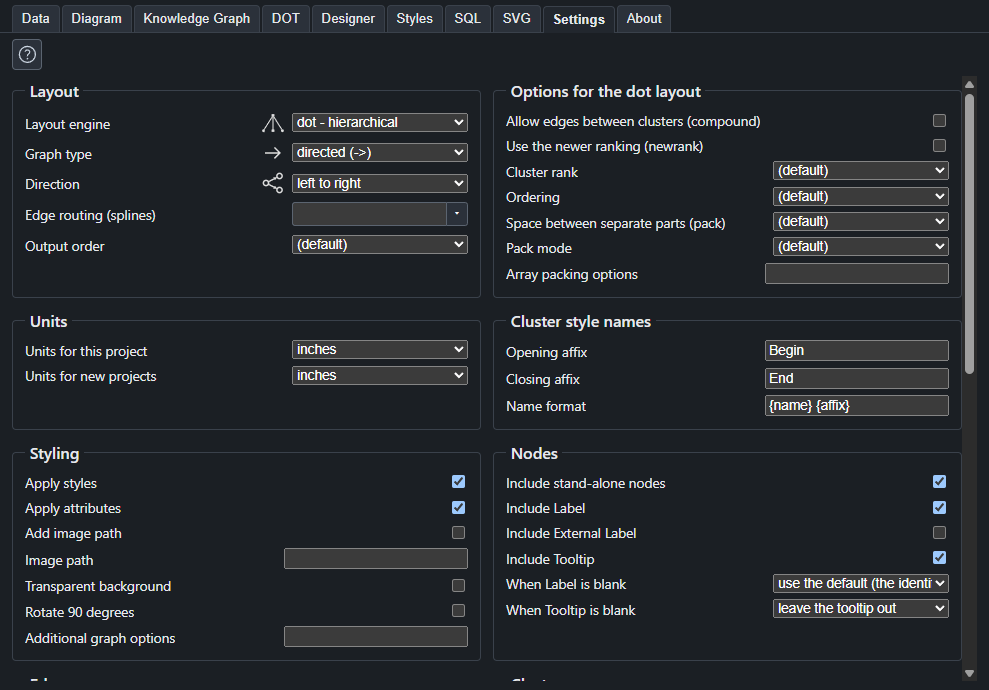
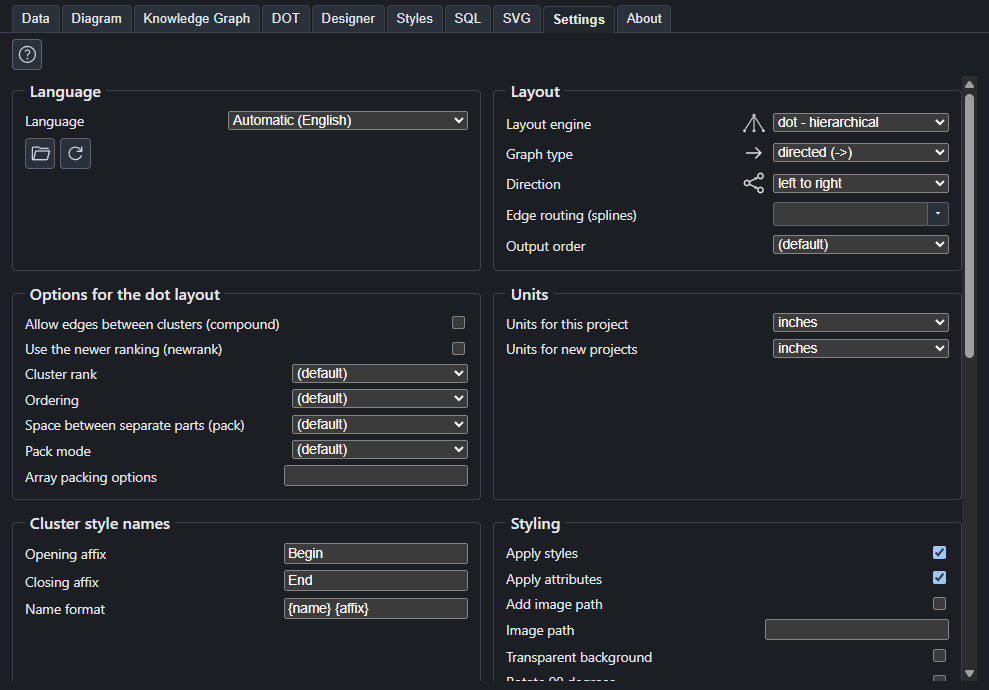
Next version: pages for Find and replace and Languages, and what the other pages say about them
New pages /docs/find-and-replace/ and /docs/languages/, in the sidebar and the docs index. The Data, Styles, SQL and DOT pages mention Ctrl+F and Ctrl+H, the Settings page has a Language section and the About page a Translations section. New Find shots and a Settings shot with the Language group. A hidden draft of the next What's new entry (number and date not chosen). Hold until the release.

diff --git a/content/docs/find-and-replace/index.md b/content/docs/find-and-replace/index.md
@@ -1,0 +1,65 @@
+---
+description: "Find text in the Data, Styles, SQL, DOT and Knowledge Graph tabs with Ctrl+F, and replace it in the tabs where you edit, with Ctrl+H."
+---
+
+# Find and replace
+
+One small bar finds text in the tab you are looking at, and on the tabs where you type data it can also replace it. It opens over the top right of the window, beside the
+tabs, and does not move anything on the page.
+
+<img class="shot shot-light" src="/shots/find-light.png" alt="The Data tab with the Find bar open, the cells that hold the text colored, and the current one stronger">
+<img class="shot shot-dark" src="/shots/find-dark.png" alt="The Data tab with the Find bar open, in the dark theme">
+
+## Finding
+
+Press **Ctrl+F** on the [Data](/docs/data/), [Styles](/docs/styles/), [SQL](/docs/sql/), [DOT](/docs/dot/) or [Knowledge Graph](/docs/knowledge-graph/) tab, and type. If you had text
+selected, the bar starts with it. The bar shows the place among the matches, such as **3 of 17**, and the tab marks every match, with the current one in a stronger color
+and scrolled into view.
+
+| Key | What it does |
+| --- | --- |
+| **Ctrl+F** | Opens the bar, or goes back to its box with the text selected, so that typing replaces the term. |
+| **Enter** and **Shift+Enter** | The next match and the one before. They go round at the ends. |
+| **F3** and **Shift+F3** | The same, from anywhere. |
+| **Alt+C** | Matches the case: with it on, `Node` does not find `node`. It is off at first. |
+| **Esc** | Closes the bar and puts the cursor on the match you were at, or selects it in the DOT text. |
+
+The bar belongs to the window and not to a tab. It keeps what you typed when you go to another tab, and looks again in that tab. On a tab that cannot be searched,
+such as Settings, it is not shown. The tab also looks again when its text changes, so the count stays true while you edit.
+
+### What each tab searches
+
+- **Data, Styles and SQL** search the text in the cells, row by row. A match is a **cell**, so a cell that holds the term twice counts once. The column headings are not searched,
+  and neither are the columns you hid with the **Columns** menu. Rows you commented out are searched like any other.
+- **DOT** searches the text, and every place where the term is counts, with the match painted over the colored text.
+- **Knowledge Graph** searches the raw text by line, and the tree by its keys and values. Switching between **Raw** and **Tree** looks again in the new view.
+
+Letters with accents are not treated as the plain letter: `zolw` does not find `żółw`. Capital and small letters are treated as the same unless you turn on **Match case**.
+
+## Replacing
+
+On the tabs where you edit, press **Ctrl+H** to show the Replace row under the Find box, or press the arrow at the left of the bar. Type the new text, then:
+
+- **Replace** (or **Enter** in the Replace box) changes the current match and goes on to the next one.
+- **Replace all** (or **Ctrl+Alt+Enter**) changes every match in the tab, and says how many cells it will change on the button, such as **Replace all (58)**.
+
+Replacing is for the cells you can type in: the text columns of the Data, Styles and SQL tabs. It changes them as typing would, so the diagram, the DOT text and the Knowledge Graph follow.
+
+- **It is one step to undo.** A Replace all is a single entry, named **Replace in cells**, and one **Ctrl+Z** puts every cell back. A single replacement is named **Replace in a cell**.
+- **It works on the tab you are on.** Replace all never changes another tab.
+- **Rows you commented out are changed too**, as the Excel tool did.
+- **The new text is taken as you type it.** Nothing in it is a pattern: `$` and `\` are ordinary characters, an empty Replace box deletes the found text, and the new text is not
+  searched again, so replacing `a` with `ab` does not run on.
+- **Some cells cannot take a replacement.** A cell where you choose from a list, such as the **Style Name** or **Style Type**, and a column that is only shown cannot be changed by it.
+  The bar says how many of those cells held the text, so nothing is passed over in silence, and you can change them by hand.
+
+::: tip Look before you replace all
+Step through a few matches first, and read the count on the button. If it is more than you expected, turn on **Match case** or make the term longer. A replacement that
+goes too far is one Undo away, but it is easier not to need it.
+:::
+
+The DOT and Knowledge Graph tabs are for reading, so they have no Replace row, and **Ctrl+H** does nothing there.
+
+## What it does not do
+
+It has no patterns (regular expressions), no whole-word option, and no search across all the tabs at once. A search finds text in one tab, and a replacement changes one tab.

diff --git a/content/docs/languages/index.md b/content/docs/languages/index.md
@@ -1,0 +1,50 @@
+---
+description: "Choose the language of Graph Modeler's tabs, buttons and messages on the Settings tab, and use a language file of your own. The website and the license stay in English."
+---
+
+# Languages
+
+Graph Modeler can show its tabs, buttons, tooltips and messages in other languages. English is built in. Another language comes as a language file, and the program finds it
+without a new installer.
+
+## Choosing a language
+
+On the [Settings](/docs/settings/) tab, the **Language** group at the top has a list.
+
+- **Automatic** follows the language of your computer when Graph Modeler has it, and uses English when it does not. It says which one it is using now, such as **Automatic (English)**.
+- Any other entry is a language, named in its own words, such as Polski. Choosing one changes the window at once.
+
+The choice is saved on this computer, and not in the project, so a project you send to someone else does not change their language. Nothing in the project changes either:
+your data, the style names you typed and the Graphviz attributes are yours, and stay as you wrote them.
+
+A language that came with Graph Modeler and that no person has reviewed is marked **(machine translated)**, and a note under the list says so. A reviewed one shows only its name.
+
+## What stays in English
+
+- **This website and its documentation.** A browser can translate a page as you read it.
+- **The license text,** and the words around it, so that nothing is lost in a translation.
+- **Graphviz's own words,** such as the names of attributes and shapes, and the words of SQL. The names of the columns that a query returns (`Item`, `Related Item`, `Style Name`)
+  are typed into scripts, so they stay English. On the [Data](/docs/data/) tab a heading in another language shows the English name in its tooltip, such as **SQL: Related Item**.
+- **The status words of a SQL run:** `SUCCESS`, `FAILURE`, `SKIPPED` and `FILTERED OUT`, which the program reads.
+- **The support information** on the [About](/docs/about/) tab, which is copied for whoever helps you.
+
+## A file of your own
+
+A language file is a PO file, the format that translation tools such as [Poedit](https://poedit.net/) read and write. To use or change one:
+
+1. Press the **folder button** under the list of languages. It opens the folder for your own language files.
+2. Put the file in it. Its name is the language's tag, such as `pl.po`, `pl-mine.po` or `en-GB.po`. The underscore that Poedit writes, as in `en_GB.po`, is read as a hyphen, and the
+   `Language` line inside the file must be the same language.
+3. Press the **reload button**, then choose the language in the list. It is marked **(your file)**, and a note under the list says which file it is from.
+
+Graph Modeler never changes, moves or deletes a file in this folder, and never chooses a file from it by itself. A file there cannot replace a language that came with the program: to
+change one, make a copy under a tag of your own (for example `pl-mine`) and set the header `X-GraphModeler-BasedOn` to the language it starts from. The copy then holds only the
+texts you changed, and takes the rest from that language and then from English.
+
+A text a file leaves empty, or does not have, is shown in English. A file that cannot be used is listed under the language list with the reason, in English, so you can correct it.
+A line of a file that is wrong is left out and the rest of the file is still used.
+
+## Helping with a language
+
+Translations are credited, by name, on the **About** tab of the program and on this website. If you would like to translate Graph Modeler into your language, or to review a
+machine translation, write to [support@graphmodeler.com](mailto:support@graphmodeler.com).

diff --git a/content/docs/changelog/index.md b/content/docs/changelog/index.md
@@ -7,6 +7,27 @@ description: "What changed in each version of Graph Modeler, newest first: new f
 What each version of Graph Modeler changed, newest first. The versions before 1.0.0 were betas, so their numbers are small and their changes many. The installers are on the
 [Download](/download/) page. Where a change is explained on a page of its own, there is a link.
 
+<!--
+THE NEXT VERSION (number and date not chosen): to publish this entry at the release, remove this comment's first and last lines, and set the number and the date.
+
+## Version ?.?.? (? ?, 2026)
+
+**New**
+
+- **Find and replace.** **Ctrl+F** opens one search bar that finds text on the [Data](/docs/data/), [Styles](/docs/styles/), [SQL](/docs/sql/), [DOT](/docs/dot/) and [Knowledge Graph](/docs/knowledge-graph/) tabs, with the matches marked and the place among them shown, such as 3 of 17. **Ctrl+H** adds a Replace row on the tabs where you type, and **Replace all** changes every cell of the tab at once, as a single step that one Undo takes back. See [Find and replace](/docs/find-and-replace/).
+- **Languages.** The **Settings** tab has a **Language** group. The program's tabs, buttons and messages can be shown in another language, and a language is a file that can be added without a new installer, including the files that Poedit writes. Nothing in your project changes with the language. The website and the license stay in English. See [Languages](/docs/languages/).
+- **Translators are credited** on the About tab, by language, as soon as a language that came with the program has translators.
+
+**Changed**
+
+- **The Knowledge Graph viewer is in the app's own look,** light or dark, and its search is the same bar as the other tabs. The **Help** button is at the right edge of the row of buttons, as on the other tabs.
+- **The Knowledge Graph tree can be searched,** by its keys and values, and a branch that holds a match is opened for you.
+
+**Fixed**
+
+- **The Knowledge Graph viewer lost its colors on a line that held the search term.** The term is now marked inside the colored text.
+-->
+
 ## Version 1.2.0 (November 10, 2026)
 
 **New**

diff --git a/content/docs/index.md b/content/docs/index.md
@@ -50,6 +50,8 @@ The tabs are in the order they are in the app.
 - [SQL extensions](/docs/sql-extensions/): the special columns a `SELECT` can return, for clusters, long labels split into lines, counters, chains of edges, trees, loops and joined values.
 - [Units and packing](/docs/units-and-packing/): inches or millimeters for the lengths you type, and how the separate parts of a graph are packed together.
 - [Fonts](/docs/fonts/): how the app finds the fonts on your computer, what to do after installing one, and what happens to it in a shared picture.
+- [Find and replace](/docs/find-and-replace/): one search bar for the Data, Styles, SQL, DOT and Knowledge Graph tabs, and Replace in the tabs where you type.
+- [Languages](/docs/languages/): choosing the language of the program, and using a language file of your own.
 - [What's new](/docs/changelog/): what each version changed.
 
 ## What you need

diff --git a/content/docs/data/index.md b/content/docs/data/index.md
@@ -66,6 +66,7 @@ A style's label can use `{label}`, `{xlabel}`, `{taillabel}` and `{headlabel}`, 
 
 - Type in a cell, or paste rows copied from Excel or another grid. Several cells paste at once.
 - Drag the small handle at the corner of the chosen cell to fill down.
+- **Ctrl+F** finds text in the cells, and **Ctrl+H** replaces it, as one change that a single Undo takes back. See [Find and replace](/docs/find-and-replace/).
 - **Undo** and **Redo** in the left pane step through your changes, including a paste or a fill.
 - The row buttons add a row above or below, remove the chosen rows, comment them out or back in, and wrap them in a cluster. Choose several rows and **Add row above** or **Add row below** adds as many
   rows as you chose, the way **Delete rows** removes as many.

diff --git a/content/docs/about/index.md b/content/docs/about/index.md
@@ -73,6 +73,11 @@ project file that is open. **Copy** puts all of it on the clipboard, ready to pa
 
 The **Graphviz** line is the quickest way to see whether the app found Graphviz and which version it is. It says `not found` when it did not.
 
+## Translations
+
+When a language that came with Graph Modeler has been translated by someone, this section thanks them, with a line for each language, named in its own words, and the people who
+translated it. It is not shown while no language has translators. A language file you added yourself is never listed here. See [Languages](/docs/languages/).
+
 ## Built with
 
 Graph Modeler relies on the work of others, and this section lists each piece with what the app uses it for, its license and a link:

diff --git a/content/docs/dot/index.md b/content/docs/dot/index.md
@@ -18,6 +18,8 @@ each have a color. A very large graph, of more than half a million characters, i
 - **Copy** puts the whole text on the clipboard.
 - **Save** writes it to a `.gv` file of your choosing.
 - **Indent** sets how many spaces each level is indented by, from none to eight. It changes the text and not the graph.
+- **Ctrl+F** searches the text and paints every match over the colors, with the current one stronger and scrolled into view. See [Find and replace](/docs/find-and-replace/).
+  The DOT is for reading, so it has no Replace.
 
 The DOT file can also be written with **Publish**. Turn on the third **Write** button, the one with the angle brackets, in the left pane.
 

diff --git a/content/docs/sql/index.md b/content/docs/sql/index.md
@@ -11,6 +11,9 @@ Data tab with what they produce, as one step that **Undo** puts back.
 <img class="shot shot-light" src="/shots/sql-light.png" alt="The SQL tab after a run, with a mark beside each line">
 <img class="shot shot-dark" src="/shots/sql-dark.png" alt="The SQL tab in the dark theme">
 
+**Ctrl+F** finds text in the lines of the script, and **Ctrl+H** replaces it, which is the quick way to change a table name that several lines use. See
+[Find and replace](/docs/find-and-replace/).
+
 ## Where the data comes from
 
 - **Excel and LibreOffice workbooks** (`.xlsx` and `.ods`). Each worksheet is a table named after it, and its first row gives the column

diff --git a/content/docs/styles/index.md b/content/docs/styles/index.md
@@ -26,6 +26,8 @@ to the node, the edge or the cluster the row makes. Change a style once and ever
 A format can mention `{label}`, `{xlabel}`, `{taillabel}` and `{headlabel}`. The values from the row are put in their places, so a
 style can wrap a row's label in a shape of its own. See [Placeholders](/docs/placeholders/).
 
+**Ctrl+F** finds text in the cells of the styles, and **Ctrl+H** replaces it, for example a color that several formats use. See [Find and replace](/docs/find-and-replace/).
+
 ## Editing a format in the Designer
 
 You can type a format by hand, or build it with the controls of the [Designer](/docs/designer/) tab and see it drawn as you go.

diff --git a/content/docs/settings/index.md b/content/docs/settings/index.md
@@ -12,6 +12,11 @@ with the project. The ones you flip between often, such as the layout engine, ar
 
 Where a setting has a picture, such as the layout engine, the picture of the one in use is shown beside it.
 
+## Language
+
+The first group is the language of the program itself: a list of the languages it has, and two buttons, one that opens the folder for your own language files and one that
+reads the files again. The choice is saved on this computer and not with the project. See [Languages](/docs/languages/).
+
 ## Layout
 
 | Setting | What it does |
